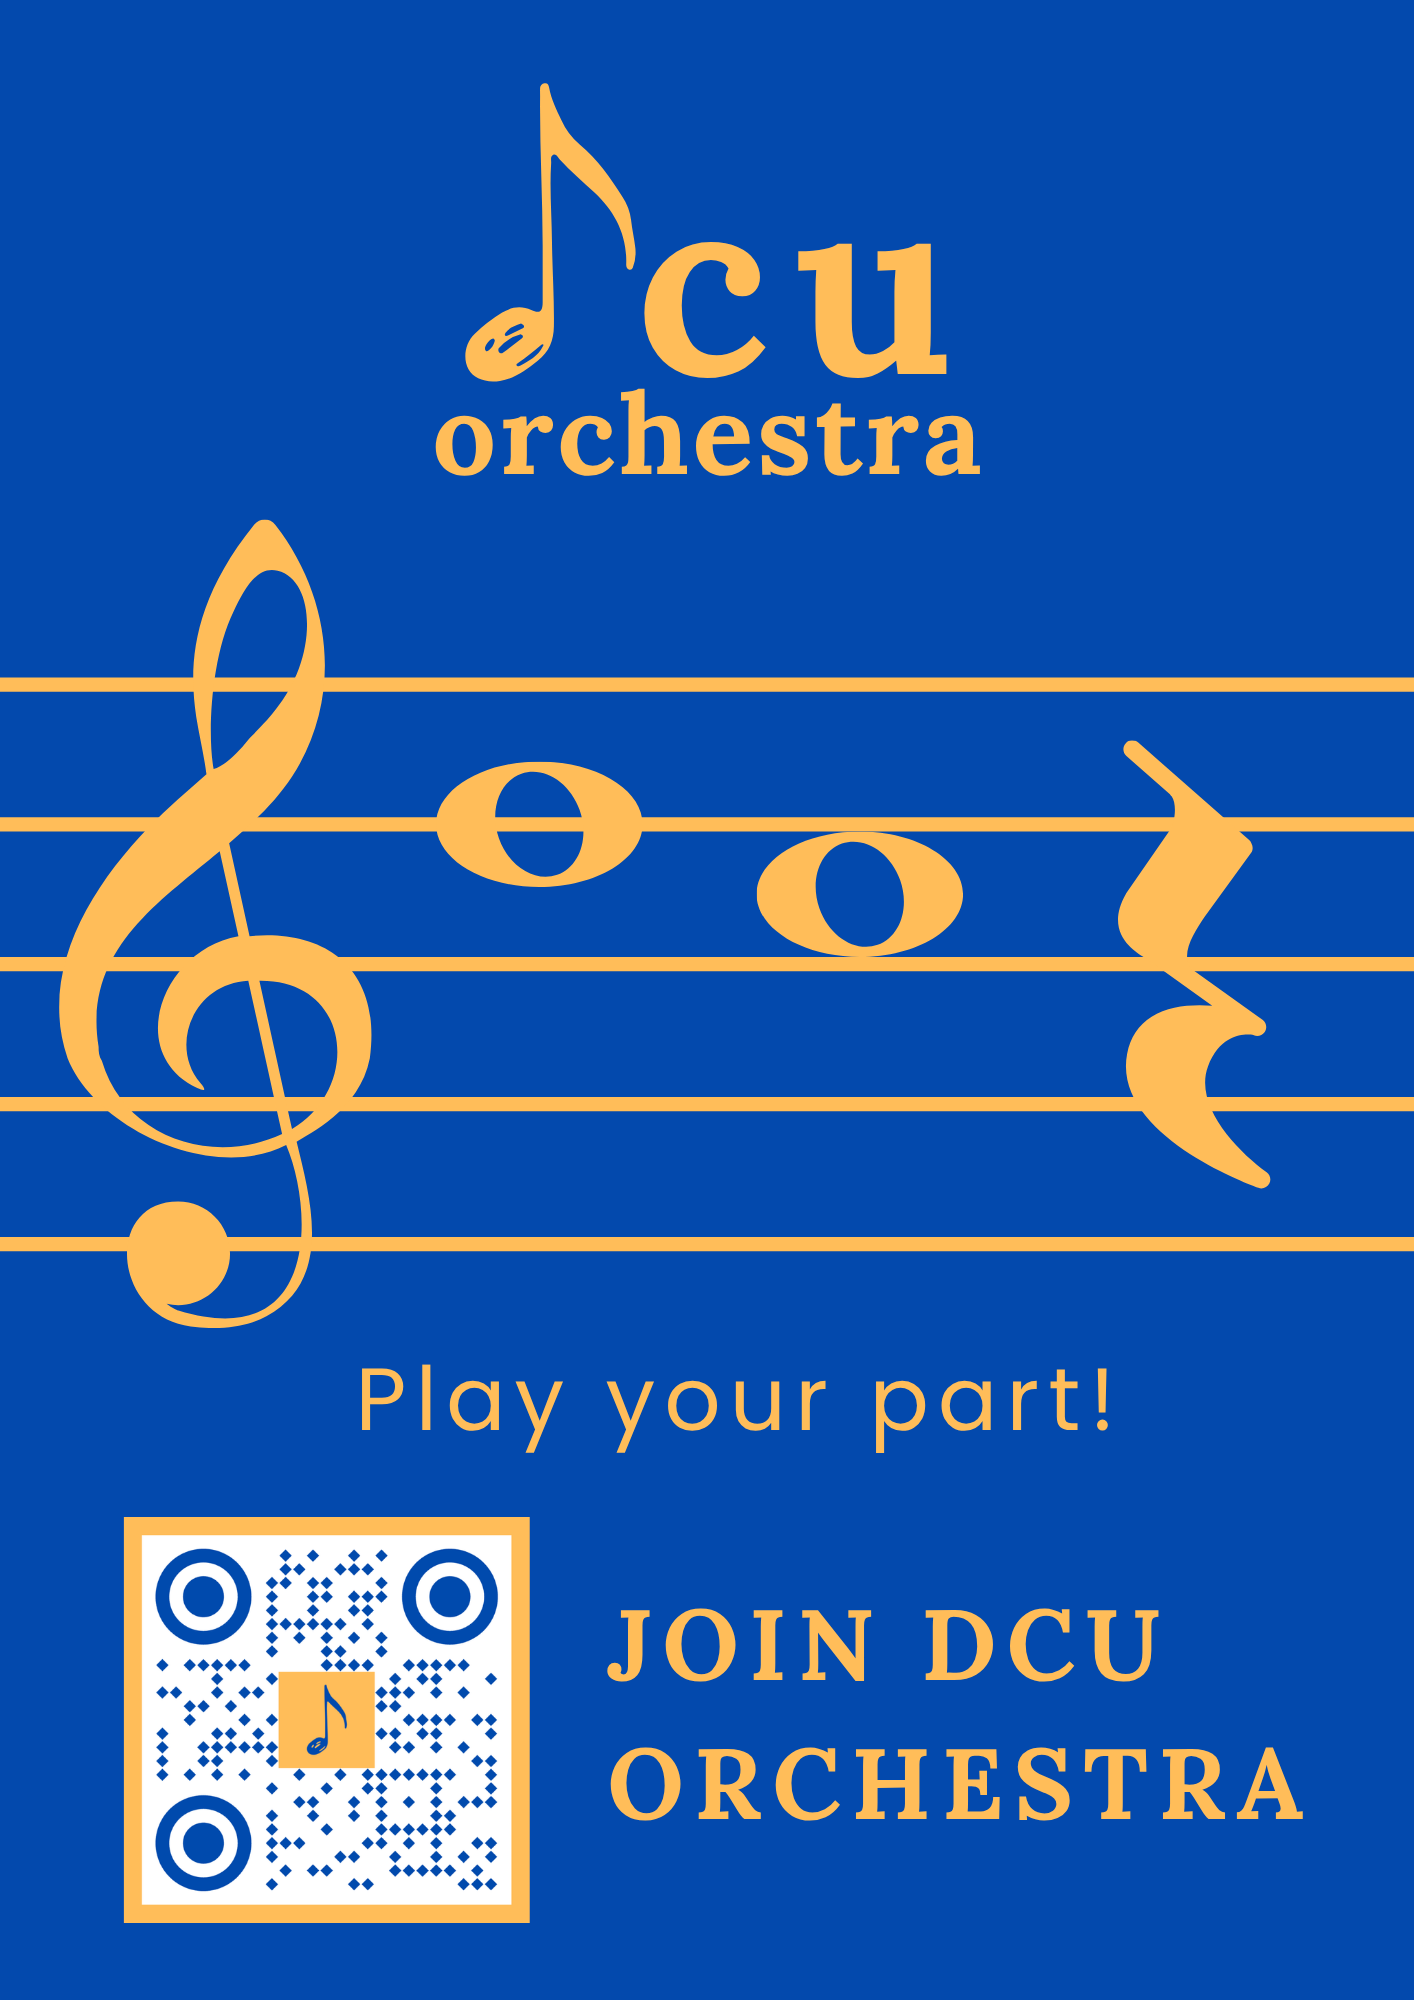
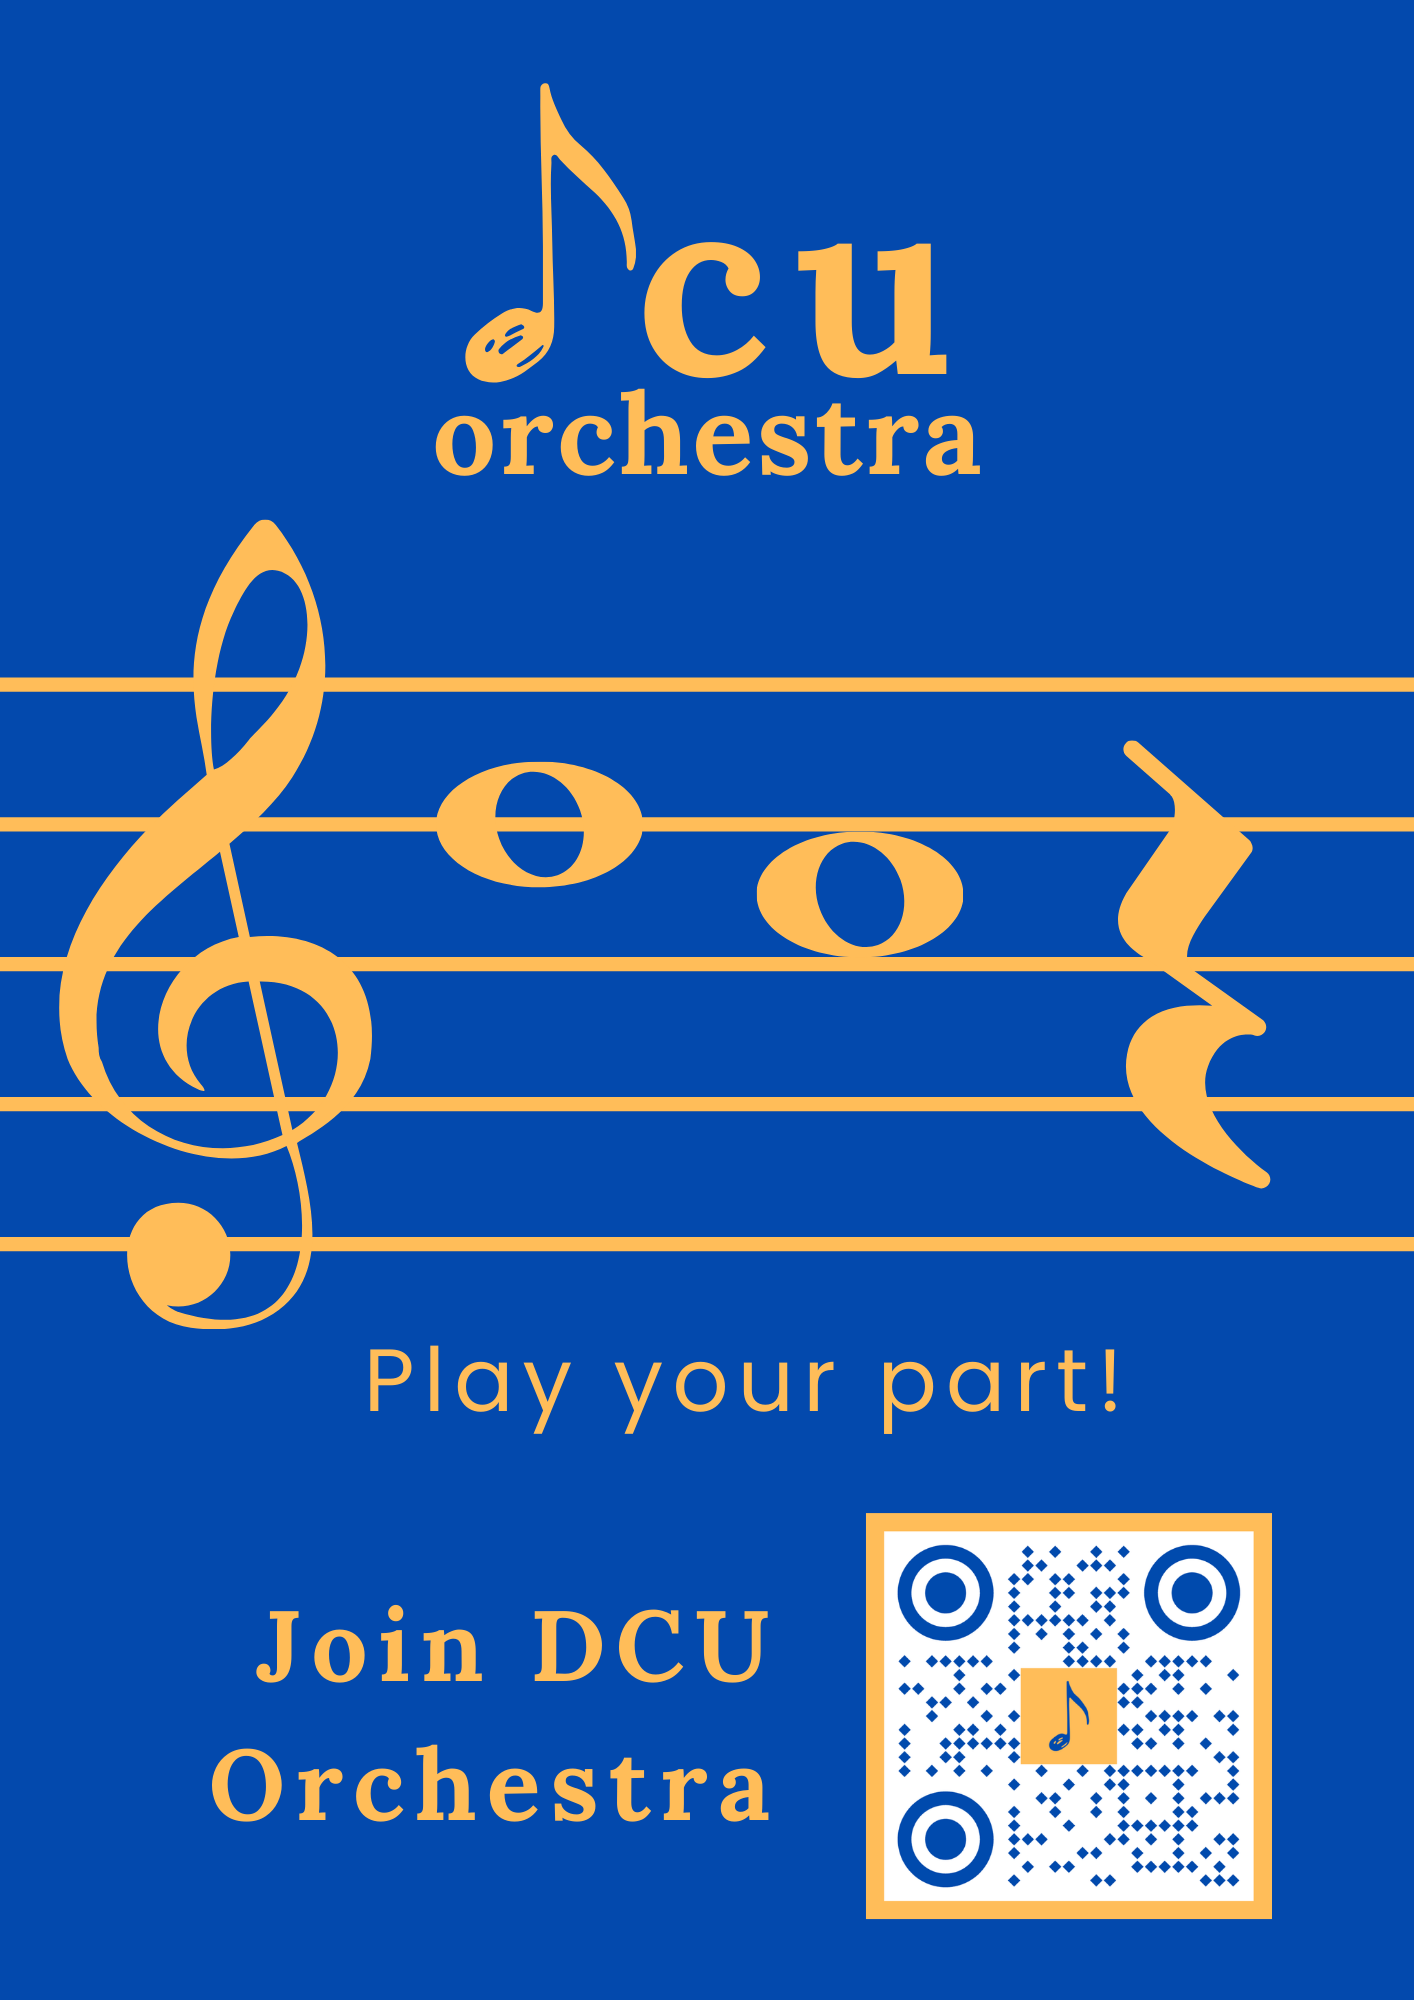
update images

diff --git a/dcuo.html b/dcuo.html
@@ -159,36 +159,29 @@
                 <h2><span class="number">04.</span>Event Branding</h2>
                 <h3>Clubs & societies fair</h3>
 
-                <div class="image-grid-2">
-                    <img src="img/dcuo-join-poster-1.png">
-                    <p>New members poster</p>
-                    <img src="img/dcuo-join-poster-2.png">
-                    <p>New members poster</p>
-                </div>
                 <div class="image-grid-1">
+                    <img src="img/dcuo-join-posters-2.png">
+                    <p>Posters</p>
+                    <img src="img/dcuo-join-posters-1.png">
+                    <p>Posters</p>
                      <img src="img/dcuo-stickers.png">
                      <p>Instrument stickers</p>
                     <img src="img/dcuo-bookmarks.png">
                     <p>Bookmarks</p>
-                </div>
-                <div class="image-grid-2">
-                    <img src="img/dcuo-table-topper-1.png">
-                    <p>Table tent card</p>
-                    <img src="img/dcuo-table-topper-2.png">
-                    <p>Table tent card</p>
-                </div>
-                <div class="image-grid-1">
-                    <img src="img/dcuo-banner-1.png">
-                    <img src="img/dcuo-banner-2.png">
+                    <img src="img/dcuo-banners.png">
                     <p>Banners</p>
                 </div>
 
                 <p>
                    I’m designing visual assets to encourage sign-ups for DCU’s upcoming Clubs & Societies Fair.
-                    These include posters, stickers, and bookmarks with a custom QR code linking directly to the membership page, making it easy for students to join on the spot while keeping the brand visible throughout the year.
-                    To decorate the stand, I created table tent cards and banners.
+                    These include posters, stickers, and bookmarks with a custom QR code linking to the membership page, making it easy for students to join on the spot while keeping the brand visible throughout the year.
+                    </p>
+                    <p>
+                    One of the designs features a music staff with notes on D and C as a nod to DCU. For the “U,” I used a quaver rest which is a short pause that invites new members to complete the melody by joining and playing their part.
+                    </p>
+                    <p>
                     A phone graphic, inspired by the iPhone QR scanning interface, reinforces DCU Orchestra’s online presence, while an envelope design symbolises an invitation to join the orchestra.
-                    One poster features a music staff with notes on D and C as a nod to DCU. For the “U,” I used a quaver rest which is a short pause that invites new members to complete the melody by joining and playing their part.
+
                 </p>
             </section>
 

diff --git a/index.html b/index.html
@@ -108,7 +108,7 @@
                     <div class="card-grid">
                         <div class="card">
                             <a href="rewear-app.html"><img src='./img/rewear-square-logo.png'></a>
-                            <h3>ReWear</h3>
+                            <h3>ReWear (WIP)</h3>
                             <p>Shopping assistant web app that helps people find secondhand and ethical alternatives to fast fashion, while connecting them to a global community of fashion-forward individuals.</p>
                             <div class="tools">
                                 <p>React</p>
